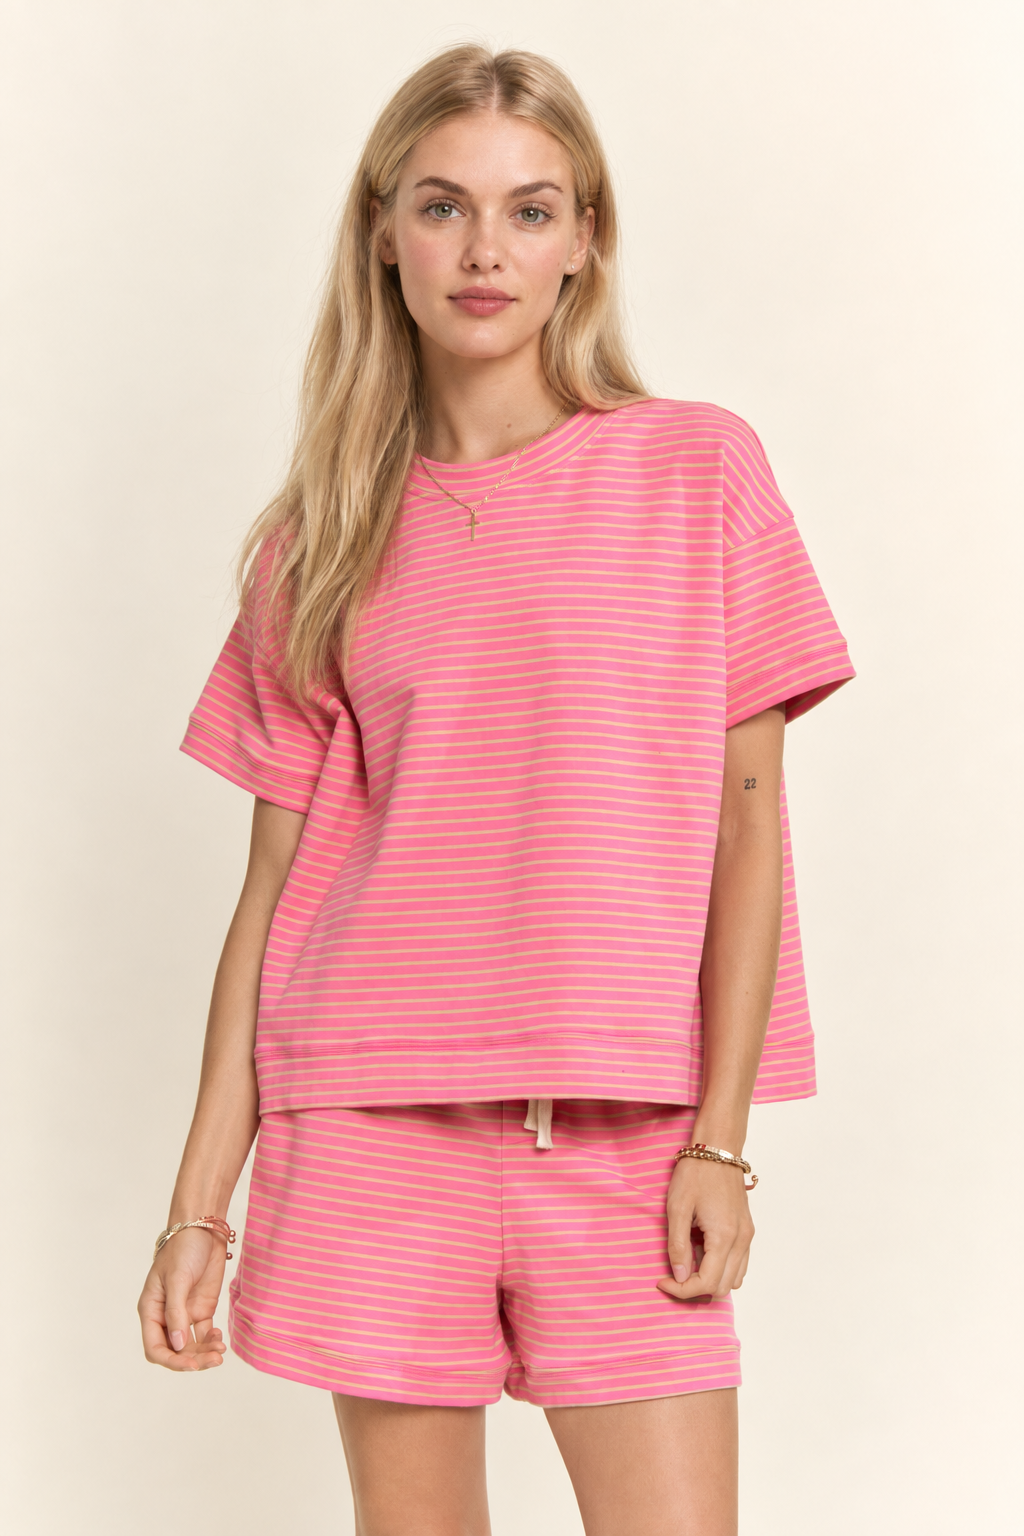
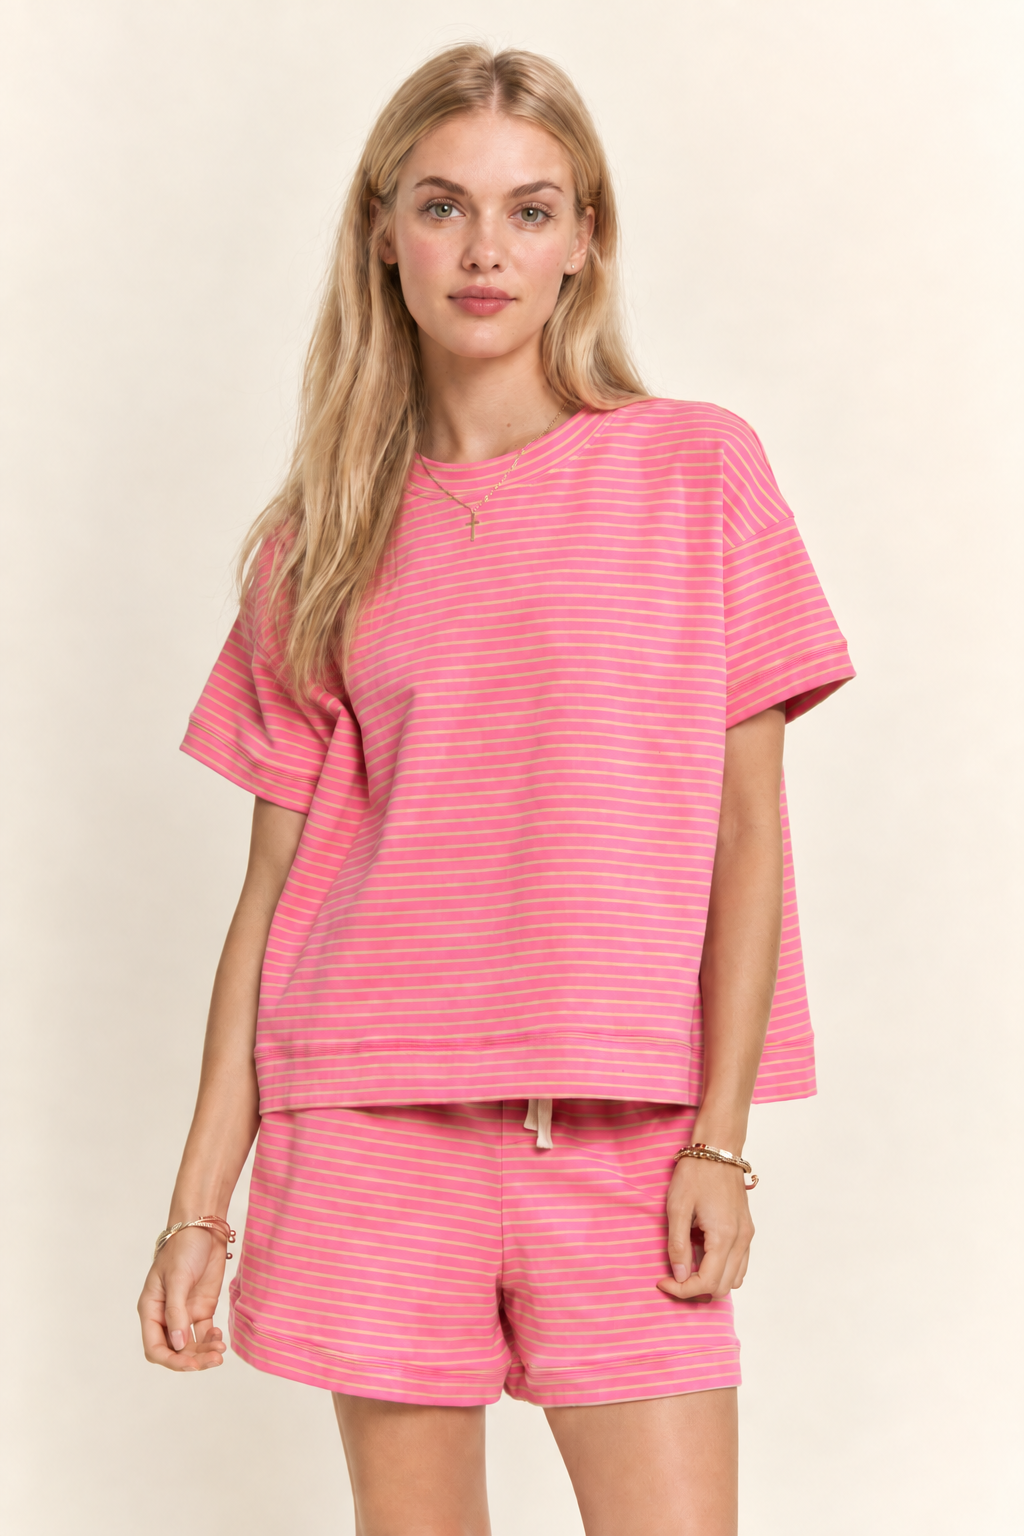
Remove arm tattoos from Vision 1 and Celine 1 front references

diff --git a/.agents/handoff.md b/.agents/handoff.md
@@ -1,21 +1,22 @@
-# Handoff — resumable Model Studio shipped
-Written 2026-09-09 09:36 PDT by Codex. Branch main; last code d4b8369.
+# Handoff — Vision 1 / Celine 1 tattoo removal
+Written 2026-09-09 11:24 PDT by Codex. Branch main; prior eed4e59.
 
 ## Accomplished
-- d4b8369 is deployed. Model Shots accepts requestId for async requests.
-  Exclusive Blob/file claim schedules each ID once; retries return the task;
-  changed inputs conflict. Production refuses temporary local task claims.
-- 726 tests and production build passed. Live duplicate-ID probe passed.
-- Faire management repo now ships shared listing workspaces: app 2.14.0,
-  extension 2.62.0, dedicated private Blob state and server Studio/ERP/Faire bridge.
-- One real GPT2.5 Vision1 front for pink DET62209 completed and survived
-  phone-layout reload + second client. Saved a durable copy via Saved Shots.
-- No real Faire draft or ERP photo upload made by this verification.
+- David requested removing the small “22” arm tattoo from the two pink striped
+  front reference images shown in Model Studio (Vision 1 and Celine 1).
+- Two built-in imagegen localized edits, visually inspected: tattoo removed;
+  identity, pose, garment and framing retained. Native PNGs are 1024×1536.
+- Replaced public/models/studio 97/front.png and studio 98/front.png,
+  plus identical crop 97/98 front files used by top-garment generation.
+- Other views and Vision 2/Celine 2 assets unchanged.
+- Exact prompts and method: docs/reference-tattoo-removal.json.
+- All 726 tests and production build passed. Git push triggers deployment;
+  verify four live assets match the local SHA256 before calling this live.
 
-## References / next steps
+## Next / preserved context
+- Reload Model Studio after deployment. Assets use max-age=0/must-revalidate.
 - Four options: Vision 1/2 = studio 97/99; Celine 1/2 = studio 98/100.
-- Original reference PNGs 1024x1536; garment output 2048x3072.
-- Evidence: ~/Services/davidani-faire-management/output/listing-sync/.
-- Shared workflow maintenance: that repo's docs/faire-daily/LISTING-SYNC.md.
-- Actual phone/iPad hardware was unavailable; browser viewports verified.
-- Preserve the pre-existing dirty tsconfig.tsbuildinfo; no other Studio edits pending.
+- Resumable generation/request IDs, shared listing work and Studio A preserved.
+- Faire repo remains app 2.19.0 / extension 2.67.0; no extension update needed.
+- Preserve pre-existing dirty tsconfig.tsbuildinfo; do not stage it.
+- Prior real generation / device-sync evidence lives in Faire repo output/listing-sync.
